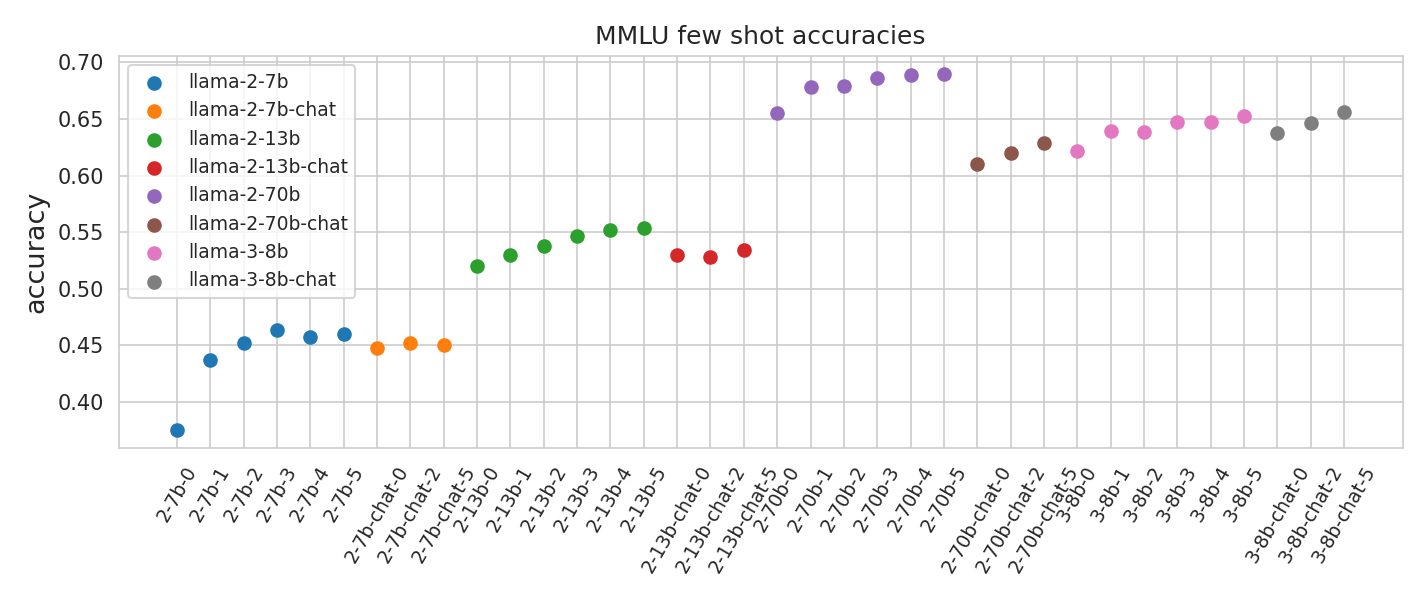
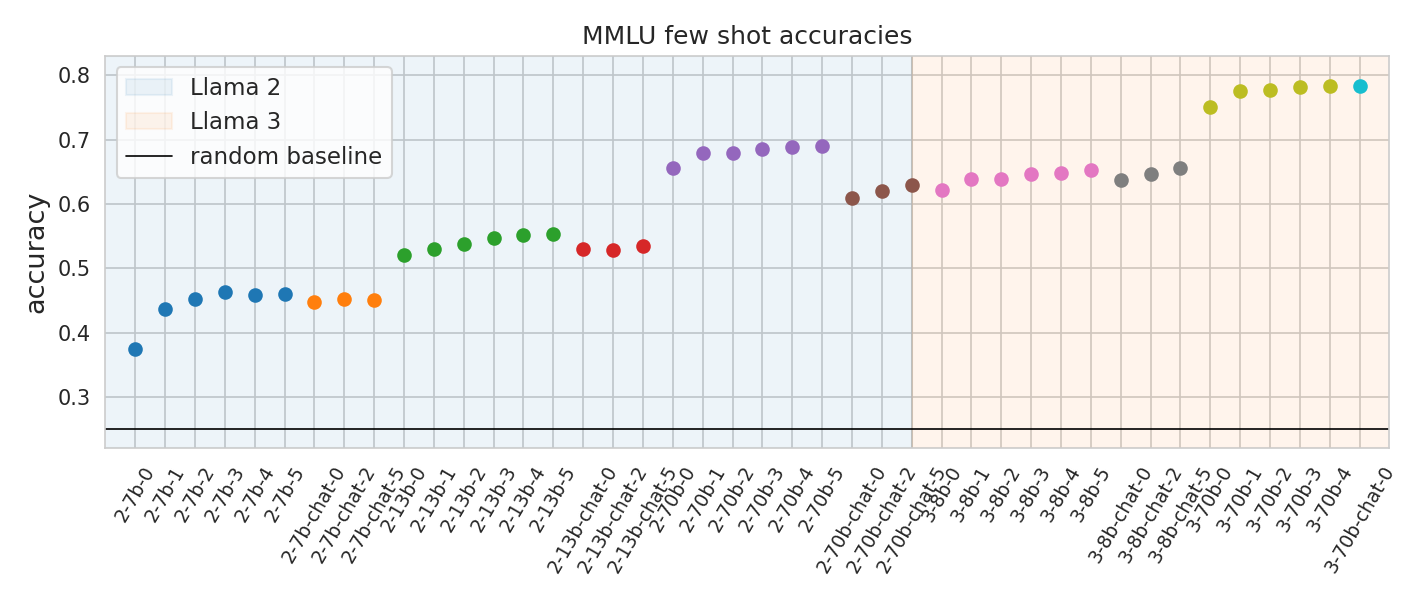
u

Changed region(s): [[0.0309, 0.03, 0.9881, 0.75], [0.0618, 0.78, 0.9881, 0.96]]

diff --git a/cluster_analysis/intrinsic_dimension/extract_activations.py b/cluster_analysis/intrinsic_dimension/extract_activations.py
@@ -10,6 +10,36 @@ rng = np.random.default_rng(42)
 # ***************************************************
 
 
+def get_target_layers_llama(model, n_layer, option="norm1", every=1, world_size=1):
+    map_names = dict(
+        norm1=".input_layernorm",
+        norm2=".post_attention_layernorm",
+        res2="",
+    )
+    suffix = map_names[option]
+    names = [name for name, _ in model.named_modules()]
+
+    prefix = "module."
+    middle = ""
+    # accelerate does not cast to bf16 a DDP model yet
+    if world_size > 0:
+        prefix = "_fsdp_wrapped_module."
+        if map_names[option] != "":
+            middle = "._fsdp_wrapped_module"
+
+    target_layers = {
+        i: f"{prefix}model.layers.{i}{middle}{suffix}" for i in range(0, n_layer, every)
+    }
+
+    target_layers[n_layer] = f"{prefix}model.norm"
+    target_layers[n_layer + 1] = f"{prefix}lm_head"
+
+    for target_layer in target_layers.values():
+        assert target_layer in names, (target_layer, names)
+
+    return target_layers
+
+
 class extract_activations:
     def __init__(
         self,
@@ -42,6 +72,8 @@ class extract_activations:
         self.global_batch_size = self.world_size * self.micro_batch_size
         self.hidden_size = 0
 
+        # to remove the hooks
+        self.handles = {}
         print("rank: nsamples", self.rank, self.nsamples)
         print("rank: nbatches", self.rank, self.nbatches)
         sys.stdout.flush()
@@ -69,7 +101,7 @@ class extract_activations:
     def init_hooks(self, target_layers):
         for name, module in self.model.named_modules():
             if name in target_layers:
-                module.register_forward_hook(
+                self.handles["name"] = module.register_forward_hook(
                     self._get_hook(name, self.hidden_states_tmp)
                 )
 
@@ -334,5 +366,8 @@ class extract_activations:
         self.predictions = torch.tensor(self.predictions)
         self.constrained_predictions = torch.tensor(self.constrained_predictions)
         self.targets = torch.tensor(self.targets)
-        # self.logits = torch.cat(logit_list, dim=0)
-        # self.input_ids = batch_list
+
+    def remove_hooks(self):
+        # remove all hooks
+        for handle in self.handles.values():
+            handle.remove()

diff --git a/analysis/few_shot_acc.py b/analysis/few_shot_acc.py
@@ -16,6 +16,8 @@ models = [
     "llama-2-70b-chat",
     "llama-3-8b",
     "llama-3-8b-chat",
+    "llama-3-70b",
+    "llama-3-70b-chat",
 ]
 
 
@@ -65,15 +67,17 @@ colors = [f"C{i}" for i in range(10)]
 sns.set_style(style="whitegrid")
 fig = plt.figure(figsize=(9.5, 4))
 ax = fig.add_subplot()
+ax.axvspan(-2, 26, color="C0", alpha=0.08, label="Llama 2")
+ax.axvspan(26, 46, color="C1", alpha=0.08, label="Llama 3")
 for i, model in enumerate(models):
-    ax.scatter(x[i], y[i], marker="o", linestyle="None", label=model, color=colors[i])
+    ax.scatter(x[i], y[i], marker="o", linestyle="None", color=colors[i])
 ax.set_xticks(xticks)
 ax.set_xticklabels(xticklabels, rotation=60, fontsize=9)
-ax.legend(fontsize=9)
 
-# sns.lineplot(
-#     ax=ax, x=x, y=y_constrained, marker="o", linestyle="None", label="constrained"
-# )
+ax.set_ylim(0.22, 0.83)
+ax.set_xlim(-1, 42)
+ax.axhline(0.25, label="random baseline", color="black", linewidth="0.8")
+ax.legend(fontsize=11)
 
 ax.set_ylabel("accuracy", fontsize=13)
 ax.set_title("MMLU few shot accuracies")
